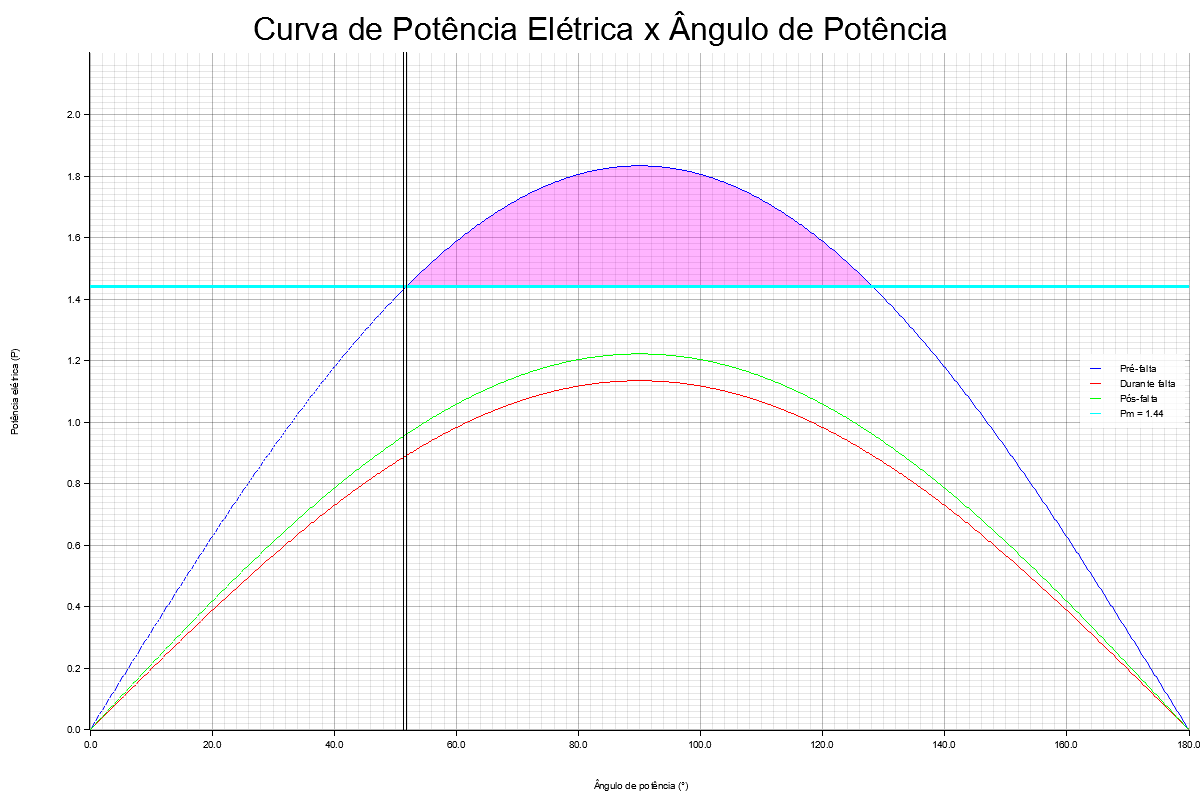
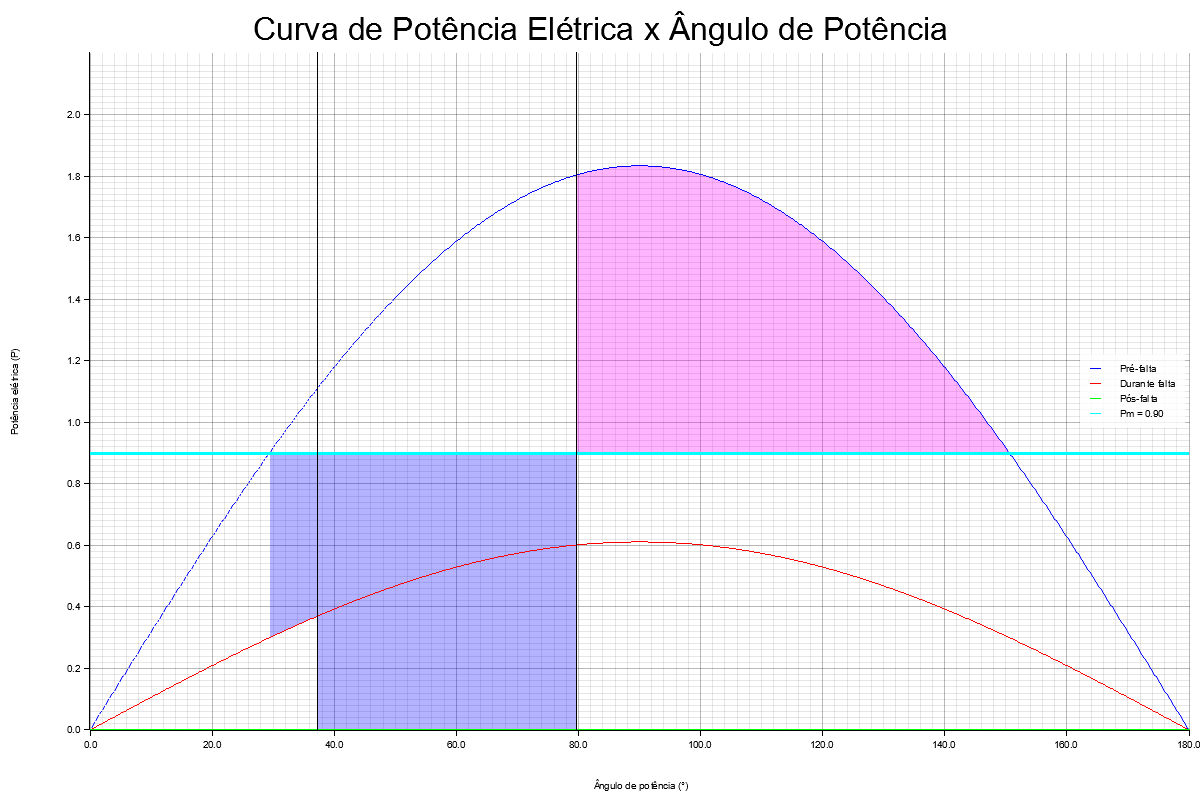
🔧 Organizes configuration file
a pso_config file was created to configure the PSO

Changed region(s): [[0.0925, 0.2188, 0.9867, 0.9375]]

diff --git a/src/main.rs b/src/main.rs
@@ -1,6 +1,7 @@
 mod area;
 mod objective_function;
 mod plot;
+mod pso_config;
 mod runge_kutta;
 mod sim_per_time;
 mod values;
@@ -8,7 +9,8 @@ mod values;
 use area::calcular_areas_melhorado;
 use objective_function::objective_function;
 use plot::{abrir_imagem, plotar_angulos_velocidades, plotar_curva_potencia};
-use pso_rs::{pso::PSO, *};
+use pso_config::pso_config;
+use pso_rs::pso::PSO;
 use sim_per_time::sim_pet_time;
 use std::time::Instant;
 use values::*;
@@ -16,22 +18,10 @@ use values::*;
 fn main() {
     let inicio = Instant::now();
 
-    let config = Config {
-        dimensions: vec![2],
-        bounds: vec![(0.149999, 0.1500001), (0.15, 5.0)],
-        c1: 2.05,
-        c2: 2.05,
-        population_size: 10000,
-        t_max: 100000,
-        ..Config::default()
-    };
-
-    fn terminate(f_best: f64) -> bool {
-        f_best < 1e-6
-    }
+    let (config, terminate) = pso_config();
 
     println!("=== INICIANDO PSO ===");
-    let pso: PSO = match pso_rs::run(config, objective_function, Some(terminate)) {
+    let pso: PSO = match pso_rs::run(config, objective_function, terminate) {
         Ok(pso_result) => pso_result,
         Err(e) => {
             println!("Erro ao executar PSO: {}", e);
@@ -44,8 +34,8 @@ fn main() {
 
     // *** SIMULAÇÃO FINAL ***
     println!("\n=== SIMULAÇÃO FINAL ===");
-    let tab = 0.15;
-    let tr = 0.3;
+    let tab = model.get_x_best()[0];
+    let tr = model.get_x_best()[1];
     let delta_n_ini = (PM / PE1).asin();
     println!(
         "Parâmetros finais: tab: {:.4}s, tr: {:.4}s, delta_n_ini: {:.6} rad",

diff --git a/src/plot.rs b/src/plot.rs
@@ -344,7 +344,20 @@ pub fn plotar_curva_potencia(
 }
 
 pub fn abrir_imagem(caminho: &str) {
-    let _ = Command::new("cmd")
-        .args(&["/C", "start", "", caminho])
-        .spawn();
+    #[cfg(target_os = "windows")]
+    {
+        let _ = Command::new("cmd")
+            .args(&["/C", "start", "", caminho])
+            .spawn();
+    }
+
+    #[cfg(target_os = "linux")]
+    {
+        let _ = Command::new("xdg-open").arg(caminho).spawn();
+    }
+
+    #[cfg(target_os = "macos")]
+    {
+        let _ = Command::new("open").arg(caminho).spawn();
+    }
 }

diff --git a/src/pso_config.rs b/src/pso_config.rs
@@ -1,0 +1,19 @@
+use pso_rs::Config;
+
+pub fn pso_config() -> (Config, Option<fn(f64) -> bool>) {
+    let config = Config {
+        dimensions: vec![2],
+        bounds: vec![(0.149999, 0.1500001), (0.15, 5.0)],
+        c1: 2.05,
+        c2: 2.05,
+        population_size: 10000,
+        t_max: 100000,
+        ..Config::default()
+    };
+
+    fn terminate(f_best: f64) -> bool {
+        f_best < 1e-6
+    }
+
+    (config, Some(terminate))
+}

diff --git a/src/values.rs b/src/values.rs
@@ -1,7 +1,7 @@
 pub const PE1: f64 = 1.83333;
-pub const PE2: f64 = 1.13491;
-pub const PE3: f64 = 1.22222;
-pub const PM: f64 = 1.44;
+pub const PE2: f64 = 0.61111;
+pub const PE3: f64 = 0.0;
+pub const PM: f64 = 0.9;
 
 pub const DELTA_W_INI: f64 = 0.0;
 pub const T_MAX: f64 = 5.0;
